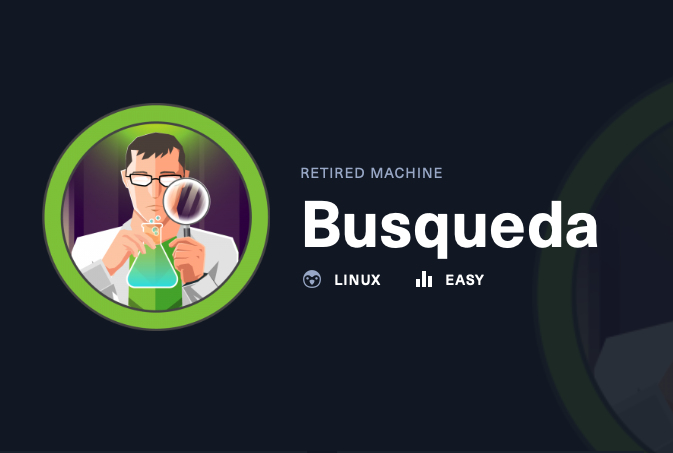
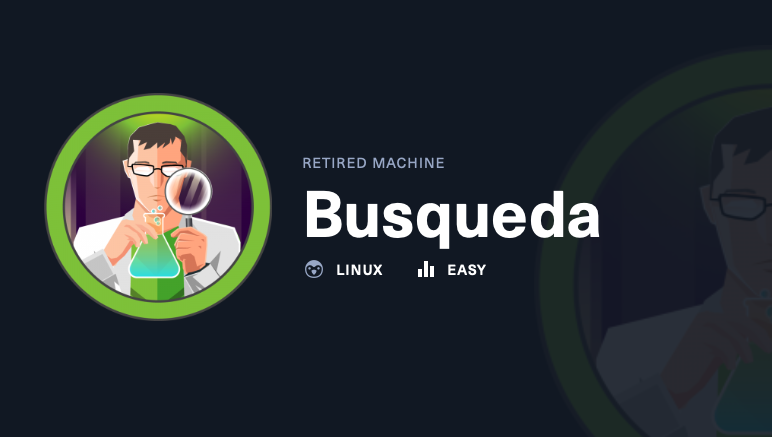
Changed image on Busqueda to fit better

Changed region(s): [[0.0312, 0.2082, 0.9049, 0.7437], [0.8737, 0.6842, 0.9049, 0.7437]]

diff --git a/public/pt-pt/index.html b/public/pt-pt/index.html
@@ -686,7 +686,7 @@
     
     <div class="min-h-full border border-neutral-200 dark:border-neutral-700 border-2 rounded overflow-hidden shadow-2xl relative">
         
-        <div class="w-full thumbnail_card nozoom" style="background-image:url(/pt-pt/posts/busqueda/cover_hu1498432561885615086.png);"></div>
+        <div class="w-full thumbnail_card nozoom" style="background-image:url(/pt-pt/posts/busqueda/cover_hu8890297964460316191.png);"></div>
         
       
 

diff --git a/public/index.html b/public/index.html
@@ -686,7 +686,7 @@
     
     <div class="min-h-full border border-neutral-200 dark:border-neutral-700 border-2 rounded overflow-hidden shadow-2xl relative">
         
-        <div class="w-full thumbnail_card nozoom" style="background-image:url(/posts/busqueda/cover_hu1498432561885615086.png);"></div>
+        <div class="w-full thumbnail_card nozoom" style="background-image:url(/posts/busqueda/cover_hu8890297964460316191.png);"></div>
         
       
 

diff --git a/public/pt-pt/posts/busqueda/index.html b/public/pt-pt/posts/busqueda/index.html
@@ -514,7 +514,7 @@
   
   
         
-            <div class="w-full h-36 md:h-56 lg:h-72 single_hero_basic nozoom" style="background-image:url(/pt-pt/posts/busqueda/cover_hu18444057601826614733.png);"></div>
+            <div class="w-full h-36 md:h-56 lg:h-72 single_hero_basic nozoom" style="background-image:url(/pt-pt/posts/busqueda/cover_hu10852642612172794746.png);"></div>
         
     
   

diff --git a/public/posts/busqueda/index.html b/public/posts/busqueda/index.html
@@ -514,7 +514,7 @@
   
   
         
-            <div class="w-full h-36 md:h-56 lg:h-72 single_hero_basic nozoom" style="background-image:url(/posts/busqueda/cover_hu18444057601826614733.png);"></div>
+            <div class="w-full h-36 md:h-56 lg:h-72 single_hero_basic nozoom" style="background-image:url(/posts/busqueda/cover_hu10852642612172794746.png);"></div>
         
     
   
